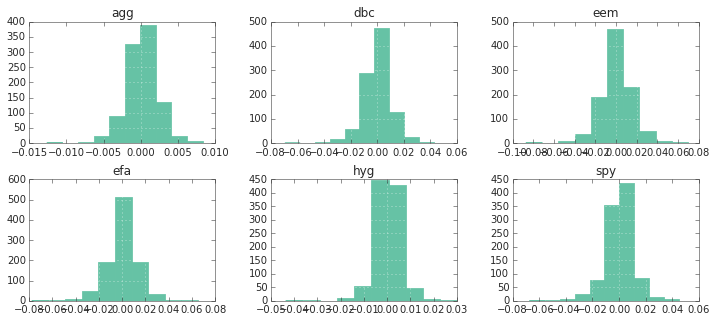
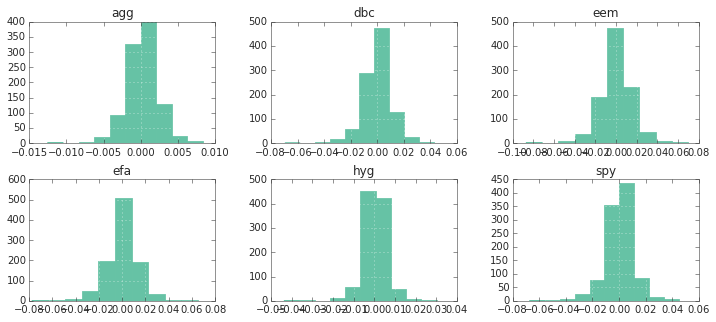
auto-updating docs

diff --git a/quick.html b/quick.html
@@ -61,11 +61,11 @@ the source, or check out the <a class="reference internal" href="ffn.html"><em>A
 </div>
 <div class="pynb-result highlight-python"><pre>              agg    hyg     spy    eem    efa
 Date
-2010-01-04  90.61  65.16  103.44  39.63  50.29
-2010-01-05  91.02  65.47  103.71  39.92  50.33
-2010-01-06  90.97  65.64  103.79  40.01  50.55
-2010-01-07  90.86  65.90  104.23  39.77  50.35
-2010-01-08  90.92  66.00  104.57  40.09  50.75
+2010-01-04  90.45  64.87  103.44  39.32  49.08
+2010-01-05  90.86  65.18  103.71  39.61  49.13
+2010-01-06  90.81  65.35  103.79  39.69  49.33
+2010-01-07  90.70  65.61  104.23  39.46  49.14
+2010-01-08  90.75  65.72  104.57  39.77  49.53
 
 [5 rows x 5 columns]</pre>
 </div>
@@ -88,17 +88,17 @@ Date
 [5 rows x 4 columns]</pre>
 </div>
 <p>The default data provider is <a class="reference internal" href="ffn.html#ffn.data.web" title="ffn.data.web"><tt class="xref py py-func docutils literal"><span class="pre">ffn.data.web()</span></tt></a>. This is basically just a thin wrapper around pandas&#8217; pandas.io.data provider. Please refer to the appropriate docs for more info (data sources, etc.). The <a class="reference internal" href="ffn.html#ffn.data.csv" title="ffn.data.csv"><tt class="xref py py-func docutils literal"><span class="pre">ffn.data.csv()</span></tt></a> provider is also available when we want to load data from a local file. In this case, we can tell <a class="reference internal" href="ffn.html#ffn.data.get" title="ffn.data.get"><tt class="xref py py-func docutils literal"><span class="pre">ffn.data.get()</span></tt></a> to use the csv provider. In this case, we also want to merge this new data with the existing data we downloaded earlier. Therefore, we will provide the <strong>data</strong> object as the <em>existing</em> argument, and the new data will be merged into the existing DataFrame.</p>
-<div class="code python highlight-python"><div class="highlight"><pre><span class="n">data</span> <span class="o">=</span> <span class="n">ffn</span><span class="o">.</span><span class="n">get</span><span class="p">(</span><span class="s">&#39;dbc&#39;</span><span class="p">,</span> <span class="n">provider</span><span class="o">=</span><span class="n">ffn</span><span class="o">.</span><span class="n">data</span><span class="o">.</span><span class="n">csv</span><span class="p">,</span> <span class="n">path</span><span class="o">=</span><span class="s">&#39;source/test_data.csv&#39;</span><span class="p">,</span> <span class="n">existing</span><span class="o">=</span><span class="n">data</span><span class="p">)</span>
+<div class="code python highlight-python"><div class="highlight"><pre><span class="n">data</span> <span class="o">=</span> <span class="n">ffn</span><span class="o">.</span><span class="n">get</span><span class="p">(</span><span class="s">&#39;dbc&#39;</span><span class="p">,</span> <span class="n">provider</span><span class="o">=</span><span class="n">ffn</span><span class="o">.</span><span class="n">data</span><span class="o">.</span><span class="n">csv</span><span class="p">,</span> <span class="n">path</span><span class="o">=</span><span class="s">&#39;test_data.csv&#39;</span><span class="p">,</span> <span class="n">existing</span><span class="o">=</span><span class="n">data</span><span class="p">)</span>
 <span class="k">print</span> <span class="n">data</span><span class="o">.</span><span class="n">head</span><span class="p">()</span>
 </pre></div>
 </div>
 <div class="pynb-result highlight-python"><pre>              agg    hyg     spy    eem    efa    dbc
 Date
-2010-01-04  90.61  65.16  103.44  39.63  50.29  25.24
-2010-01-05  91.02  65.47  103.71  39.92  50.33  25.27
-2010-01-06  90.97  65.64  103.79  40.01  50.55  25.72
-2010-01-07  90.86  65.90  104.23  39.77  50.35  25.40
-2010-01-08  90.92  66.00  104.57  40.09  50.75  25.38
+2010-01-04  90.45  64.87  103.44  39.32  49.08  25.24
+2010-01-05  90.86  65.18  103.71  39.61  49.13  25.27
+2010-01-06  90.81  65.35  103.79  39.69  49.33  25.72
+2010-01-07  90.70  65.61  104.23  39.46  49.14  25.40
+2010-01-08  90.75  65.72  104.57  39.77  49.53  25.38
 
 [5 rows x 6 columns]</pre>
 </div>
@@ -113,11 +113,11 @@ Date
 </div>
 <div class="pynb-result highlight-python"><pre>                 agg       hyg       spy       eem       efa       dbc
 Date
-2010-01-05  0.004515  0.004746  0.002607  0.007291  0.000795  0.001188
-2010-01-06 -0.000549  0.002593  0.000771  0.002252  0.004362  0.017651
-2010-01-07 -0.001210  0.003953  0.004230 -0.006017 -0.003964 -0.012520
-2010-01-08  0.000660  0.001516  0.003257  0.008014  0.007913 -0.000788
-2010-01-11 -0.000770 -0.000758  0.001433 -0.001998  0.008242 -0.003157
+2010-01-05  0.004523  0.004767  0.002607  0.007348  0.001018  0.001188
+2010-01-06 -0.000550  0.002605  0.000771  0.002018  0.004063  0.017651
+2010-01-07 -0.001212  0.003971  0.004230 -0.005812 -0.003859 -0.012520
+2010-01-08  0.000551  0.001675  0.003257  0.007825  0.007905 -0.000788
+2010-01-11 -0.000772 -0.000913  0.001433 -0.002014  0.008244 -0.003157
 
 [5 rows x 6 columns]</pre>
 </div>
@@ -149,7 +149,7 @@ function to get the pairwise correlations between assets.</p>
     <tr>
       <th>agg</th>
       <td>  1.00</td>
-      <td> -0.12</td>
+      <td> -0.11</td>
       <td> -0.33</td>
       <td> -0.23</td>
       <td> -0.29</td>
@@ -157,7 +157,7 @@ function to get the pairwise correlations between assets.</p>
     </tr>
     <tr>
       <th>hyg</th>
-      <td> -0.12</td>
+      <td> -0.11</td>
       <td>  1.00</td>
       <td>  0.77</td>
       <td>  0.75</td>
@@ -241,49 +241,49 @@ the way we display this wide array of stats.</p>
 Start                2010-01-04  2010-01-04  2010-01-04  2010-01-04  2010-01-04  2010-01-04
 End                  2013-12-31  2013-12-31  2013-12-31  2013-12-31  2013-12-31  2013-12-31
 
-Total Return         16.37%      39.21%      76.91%      5.48%       33.43%      1.66%
+Total Return         16.36%      39.23%      76.91%      5.47%       33.44%      1.66%
 Daily Sharpe         1.11        0.97        0.93        0.18        0.44        0.11
-CAGR                 3.87%       8.65%       15.37%      1.35%       7.50%       0.41%
-Max Drawdown         -5.15%      -10.06%     -18.61%     -30.87%     -25.86%     -24.34%
+CAGR                 3.87%       8.65%       15.37%      1.34%       7.50%       0.41%
+Max Drawdown         -5.14%      -10.07%     -18.61%     -30.87%     -25.86%     -24.34%
 
-MTD                  -0.56%      0.40%       2.59%       -0.41%      2.18%       0.59%
-3m                   0.02%       3.42%       10.52%      3.49%       6.09%       -0.39%
-6m                   0.58%       5.83%       16.32%      9.54%       18.11%      2.11%
-YTD                  -1.97%      5.75%       32.30%      -3.64%      21.45%      -7.63%
-1Y                   -1.97%      5.75%       32.30%      -3.64%      21.45%      -7.63%
-3Y (ann.)            3.08%       7.83%       16.07%      -2.33%      8.17%       -2.34%
-5Y (ann.)            3.87%       8.65%       15.37%      1.35%       7.50%       0.41%
-10Y (ann.)           3.87%       8.65%       15.37%      1.35%       7.50%       0.41%
-Since Incep. (ann.)  3.87%       8.65%       15.37%      1.35%       7.50%       0.41%
+MTD                  -0.56%      0.41%       2.59%       -0.41%      2.17%       0.59%
+3m                   0.02%       3.42%       10.52%      3.47%       6.07%       -0.39%
+6m                   0.57%       5.85%       16.32%      9.54%       18.11%      2.11%
+YTD                  -1.97%      5.76%       32.30%      -3.65%      21.44%      -7.63%
+1Y                   -1.97%      5.76%       32.30%      -3.65%      21.44%      -7.63%
+3Y (ann.)            3.08%       7.83%       16.07%      -2.34%      8.17%       -2.34%
+5Y (ann.)            3.87%       8.65%       15.37%      1.34%       7.50%       0.41%
+10Y (ann.)           3.87%       8.65%       15.37%      1.34%       7.50%       0.41%
+Since Incep. (ann.)  3.87%       8.65%       15.37%      1.34%       7.50%       0.41%
 
 Daily Sharpe         1.11        0.97        0.93        0.18        0.44        0.11
-Daily Mean (ann.)    3.86%       8.70%       15.73%      4.36%       9.73%       1.83%
-Daily Vol (ann.)     3.48%       8.97%       16.83%      24.56%      22.31%      16.84%
-Daily Skew           -0.40       -0.55       -0.39       -0.13       -0.26       -0.47
-Daily Kurt           2.30        7.51        4.02        3.06        3.64        2.90
-Best Day             0.83%       3.05%       4.65%       7.20%       6.74%       4.34%
-Worst Day            -1.25%      -4.26%      -6.51%      -8.34%      -7.46%      -6.70%
+Daily Mean (ann.)    3.86%       8.70%       15.73%      4.35%       9.73%       1.83%
+Daily Vol (ann.)     3.47%       8.98%       16.83%      24.56%      22.32%      16.84%
+Daily Skew           -0.40       -0.55       -0.39       -0.12       -0.26       -0.47
+Daily Kurt           2.28        7.52        4.02        3.06        3.64        2.90
+Best Day             0.84%       3.06%       4.65%       7.20%       6.75%       4.34%
+Worst Day            -1.24%      -4.27%      -6.51%      -8.34%      -7.46%      -6.70%
 
-Monthly Sharpe       1.22        1.11        1.22        0.30        0.60        0.27
+Monthly Sharpe       1.23        1.11        1.22        0.30        0.60        0.27
 Monthly Mean (ann.)  3.59%       9.51%       16.99%      6.43%       11.06%      4.61%
-Monthly Vol (ann.)   2.93%       8.55%       13.92%      21.46%      18.41%      17.10%
-Monthly Skew         -0.34       0.14        -0.32       -0.09       -0.37       -0.74
-Monthly Kurt         0.03        1.74        0.24        1.29        0.17        1.16
-Best Month           1.77%       8.48%       10.92%      16.29%      11.61%      9.89%
-Worst Month          -2.01%      -5.29%      -7.94%      -17.90%     -11.20%     -14.62%
+Monthly Vol (ann.)   2.93%       8.56%       13.92%      21.45%      18.41%      17.10%
+Monthly Skew         -0.34       0.14        -0.32       -0.10       -0.37       -0.74
+Monthly Kurt         0.02        1.74        0.24        1.28        0.17        1.16
+Best Month           1.77%       8.49%       10.92%      16.27%      11.63%      9.89%
+Worst Month          -2.00%      -5.30%      -7.94%      -17.89%     -11.19%     -14.62%
 
 Yearly Sharpe        0.65        2.79        1.10        -0.06       0.50        -0.40
 Yearly Mean          3.16%       7.85%       16.73%      -1.13%      9.32%       -2.24%
-Yearly Vol           4.86%       2.82%       15.22%      19.04%      18.73%      5.57%
-Yearly Skew          -0.54       1.48        0.22        0.58        -1.69       0.27
+Yearly Vol           4.86%       2.81%       15.22%      19.06%      18.72%      5.57%
+Yearly Skew          -0.54       1.50        0.22        0.58        -1.69       0.27
 Yearly Kurt          -           -           -           -           -           -
-Best Year            7.70%       11.06%      32.30%      19.05%      21.45%      3.50%
-Worst Year           -1.97%      5.75%       1.90%       -18.79%     -12.24%     -7.63%
+Best Year            7.70%       11.05%      32.30%      19.06%      21.44%      3.50%
+Worst Year           -1.97%      5.76%       1.90%       -18.80%     -12.23%     -7.63%
 
 Avg. Drawdown        -0.48%      -1.18%      -1.79%      -5.16%      -4.96%      -5.09%
-Avg. Drawdown Days   16.93       15.65       17.55       78.22       60.04       107.85
-Avg. Up Month        0.87%       1.85%       3.58%       5.87%       4.37%       4.28%
-Avg. Down Month      -0.47%      -2.31%      -3.21%      -3.41%      -4.16%      -3.35%
+Avg. Drawdown Days   17.16       15.69       17.55       78.22       60.04       107.85
+Avg. Up Month        0.83%       1.86%       3.58%       5.87%       4.37%       4.28%
+Avg. Down Month      -0.49%      -2.31%      -3.21%      -3.41%      -4.15%      -3.35%
 Win Year %           66.67%      100.00%     100.00%     33.33%      66.67%      33.33%
 Win 12m %            81.08%      97.30%      94.59%      59.46%      70.27%      45.95%
 None</pre>
@@ -355,11 +355,11 @@ dtype: object</pre>
 <div class="code python highlight-python"><div class="highlight"><pre><span class="n">returns</span><span class="o">.</span><span class="n">calc_mean_var_weights</span><span class="p">()</span><span class="o">.</span><span class="n">as_format</span><span class="p">(</span><span class="s">&#39;.2%&#39;</span><span class="p">)</span>
 </pre></div>
 </div>
-<div class="pynb-result highlight-python"><pre>agg    79.50%
+<div class="pynb-result highlight-python"><pre>agg    79.57%
 dbc     0.00%
 eem     0.00%
 efa     0.00%
-hyg     6.48%
+hyg     6.39%
 spy    14.03%
 dtype: object</pre>
 </div>

diff --git a/quickstart.html b/quickstart.html
@@ -55,11 +55,11 @@
 </div>
 <div class="pynb-result highlight-python"><pre>              agg    hyg     spy    eem    efa
 Date
-2010-01-04  90.61  65.16  103.44  39.63  50.29
-2010-01-05  91.02  65.47  103.71  39.92  50.33
-2010-01-06  90.97  65.64  103.79  40.01  50.55
-2010-01-07  90.86  65.90  104.23  39.77  50.35
-2010-01-08  90.92  66.00  104.57  40.09  50.75
+2010-01-04  90.45  64.87  103.44  39.32  49.08
+2010-01-05  90.86  65.18  103.71  39.61  49.13
+2010-01-06  90.81  65.35  103.79  39.69  49.33
+2010-01-07  90.70  65.61  104.23  39.46  49.14
+2010-01-08  90.75  65.72  104.57  39.77  49.53
 
 [5 rows x 5 columns]</pre>
 </div>
@@ -82,17 +82,17 @@ Date
 [5 rows x 4 columns]</pre>
 </div>
 <p>The default data provider is <a class="reference internal" href="ffn.html#ffn.data.web" title="ffn.data.web"><tt class="xref py py-func docutils literal"><span class="pre">ffn.data.web()</span></tt></a>. This is basically just a thin wrapper around pandas&#8217; pandas.io.data provider. Please refer to the appropriate docs for more info (data sources, etc.). The <a class="reference internal" href="ffn.html#ffn.data.csv" title="ffn.data.csv"><tt class="xref py py-func docutils literal"><span class="pre">ffn.data.csv()</span></tt></a> provider is also available when we want to load data from a local file. In this case, we can tell <a class="reference internal" href="ffn.html#ffn.data.get" title="ffn.data.get"><tt class="xref py py-func docutils literal"><span class="pre">ffn.data.get()</span></tt></a> to use the csv provider. In this case, we also want to merge this new data with the existing data we downloaded earlier. Therefore, we will provide the <strong>data</strong> object as the <em>existing</em> argument, and the new data will be merged into the existing DataFrame.</p>
-<div class="code python highlight-python"><div class="highlight"><pre><span class="n">data</span> <span class="o">=</span> <span class="n">ffn</span><span class="o">.</span><span class="n">get</span><span class="p">(</span><span class="s">&#39;dbc&#39;</span><span class="p">,</span> <span class="n">provider</span><span class="o">=</span><span class="n">ffn</span><span class="o">.</span><span class="n">data</span><span class="o">.</span><span class="n">csv</span><span class="p">,</span> <span class="n">path</span><span class="o">=</span><span class="s">&#39;source/test_data.csv&#39;</span><span class="p">,</span> <span class="n">existing</span><span class="o">=</span><span class="n">data</span><span class="p">)</span>
+<div class="code python highlight-python"><div class="highlight"><pre><span class="n">data</span> <span class="o">=</span> <span class="n">ffn</span><span class="o">.</span><span class="n">get</span><span class="p">(</span><span class="s">&#39;dbc&#39;</span><span class="p">,</span> <span class="n">provider</span><span class="o">=</span><span class="n">ffn</span><span class="o">.</span><span class="n">data</span><span class="o">.</span><span class="n">csv</span><span class="p">,</span> <span class="n">path</span><span class="o">=</span><span class="s">&#39;test_data.csv&#39;</span><span class="p">,</span> <span class="n">existing</span><span class="o">=</span><span class="n">data</span><span class="p">)</span>
 <span class="k">print</span> <span class="n">data</span><span class="o">.</span><span class="n">head</span><span class="p">()</span>
 </pre></div>
 </div>
 <div class="pynb-result highlight-python"><pre>              agg    hyg     spy    eem    efa    dbc
 Date
-2010-01-04  90.61  65.16  103.44  39.63  50.29  25.24
-2010-01-05  91.02  65.47  103.71  39.92  50.33  25.27
-2010-01-06  90.97  65.64  103.79  40.01  50.55  25.72
-2010-01-07  90.86  65.90  104.23  39.77  50.35  25.40
-2010-01-08  90.92  66.00  104.57  40.09  50.75  25.38
+2010-01-04  90.45  64.87  103.44  39.32  49.08  25.24
+2010-01-05  90.86  65.18  103.71  39.61  49.13  25.27
+2010-01-06  90.81  65.35  103.79  39.69  49.33  25.72
+2010-01-07  90.70  65.61  104.23  39.46  49.14  25.40
+2010-01-08  90.75  65.72  104.57  39.77  49.53  25.38
 
 [5 rows x 6 columns]</pre>
 </div>
@@ -107,11 +107,11 @@ Date
 </div>
 <div class="pynb-result highlight-python"><pre>                 agg       hyg       spy       eem       efa       dbc
 Date
-2010-01-05  0.004515  0.004746  0.002607  0.007291  0.000795  0.001188
-2010-01-06 -0.000549  0.002593  0.000771  0.002252  0.004362  0.017651
-2010-01-07 -0.001210  0.003953  0.004230 -0.006017 -0.003964 -0.012520
-2010-01-08  0.000660  0.001516  0.003257  0.008014  0.007913 -0.000788
-2010-01-11 -0.000770 -0.000758  0.001433 -0.001998  0.008242 -0.003157
+2010-01-05  0.004523  0.004767  0.002607  0.007348  0.001018  0.001188
+2010-01-06 -0.000550  0.002605  0.000771  0.002018  0.004063  0.017651
+2010-01-07 -0.001212  0.003971  0.004230 -0.005812 -0.003859 -0.012520
+2010-01-08  0.000551  0.001675  0.003257  0.007825  0.007905 -0.000788
+2010-01-11 -0.000772 -0.000913  0.001433 -0.002014  0.008244 -0.003157
 
 [5 rows x 6 columns]</pre>
 </div>
@@ -143,7 +143,7 @@ function to get the pairwise correlations between assets.</p>
     <tr>
       <th>agg</th>
       <td>  1.00</td>
-      <td> -0.12</td>
+      <td> -0.11</td>
       <td> -0.33</td>
       <td> -0.23</td>
       <td> -0.29</td>
@@ -151,7 +151,7 @@ function to get the pairwise correlations between assets.</p>
     </tr>
     <tr>
       <th>hyg</th>
-      <td> -0.12</td>
+      <td> -0.11</td>
       <td>  1.00</td>
       <td>  0.77</td>
       <td>  0.75</td>
@@ -235,49 +235,49 @@ the way we display this wide array of stats.</p>
 Start                2010-01-04  2010-01-04  2010-01-04  2010-01-04  2010-01-04  2010-01-04
 End                  2013-12-31  2013-12-31  2013-12-31  2013-12-31  2013-12-31  2013-12-31
 
-Total Return         16.37%      39.21%      76.91%      5.48%       33.43%      1.66%
+Total Return         16.36%      39.23%      76.91%      5.47%       33.44%      1.66%
 Daily Sharpe         1.11        0.97        0.93        0.18        0.44        0.11
-CAGR                 3.87%       8.65%       15.37%      1.35%       7.50%       0.41%
-Max Drawdown         -5.15%      -10.06%     -18.61%     -30.87%     -25.86%     -24.34%
+CAGR                 3.87%       8.65%       15.37%      1.34%       7.50%       0.41%
+Max Drawdown         -5.14%      -10.07%     -18.61%     -30.87%     -25.86%     -24.34%
 
-MTD                  -0.56%      0.40%       2.59%       -0.41%      2.18%       0.59%
-3m                   0.02%       3.42%       10.52%      3.49%       6.09%       -0.39%
-6m                   0.58%       5.83%       16.32%      9.54%       18.11%      2.11%
-YTD                  -1.97%      5.75%       32.30%      -3.64%      21.45%      -7.63%
-1Y                   -1.97%      5.75%       32.30%      -3.64%      21.45%      -7.63%
-3Y (ann.)            3.08%       7.83%       16.07%      -2.33%      8.17%       -2.34%
-5Y (ann.)            3.87%       8.65%       15.37%      1.35%       7.50%       0.41%
-10Y (ann.)           3.87%       8.65%       15.37%      1.35%       7.50%       0.41%
-Since Incep. (ann.)  3.87%       8.65%       15.37%      1.35%       7.50%       0.41%
+MTD                  -0.56%      0.41%       2.59%       -0.41%      2.17%       0.59%
+3m                   0.02%       3.42%       10.52%      3.47%       6.07%       -0.39%
+6m                   0.57%       5.85%       16.32%      9.54%       18.11%      2.11%
+YTD                  -1.97%      5.76%       32.30%      -3.65%      21.44%      -7.63%
+1Y                   -1.97%      5.76%       32.30%      -3.65%      21.44%      -7.63%
+3Y (ann.)            3.08%       7.83%       16.07%      -2.34%      8.17%       -2.34%
+5Y (ann.)            3.87%       8.65%       15.37%      1.34%       7.50%       0.41%
+10Y (ann.)           3.87%       8.65%       15.37%      1.34%       7.50%       0.41%
+Since Incep. (ann.)  3.87%       8.65%       15.37%      1.34%       7.50%       0.41%
 
 Daily Sharpe         1.11        0.97        0.93        0.18        0.44        0.11
-Daily Mean (ann.)    3.86%       8.70%       15.73%      4.36%       9.73%       1.83%
-Daily Vol (ann.)     3.48%       8.97%       16.83%      24.56%      22.31%      16.84%
-Daily Skew           -0.40       -0.55       -0.39       -0.13       -0.26       -0.47
-Daily Kurt           2.30        7.51        4.02        3.06        3.64        2.90
-Best Day             0.83%       3.05%       4.65%       7.20%       6.74%       4.34%
-Worst Day            -1.25%      -4.26%      -6.51%      -8.34%      -7.46%      -6.70%
+Daily Mean (ann.)    3.86%       8.70%       15.73%      4.35%       9.73%       1.83%
+Daily Vol (ann.)     3.47%       8.98%       16.83%      24.56%      22.32%      16.84%
+Daily Skew           -0.40       -0.55       -0.39       -0.12       -0.26       -0.47
+Daily Kurt           2.28        7.52        4.02        3.06        3.64        2.90
+Best Day             0.84%       3.06%       4.65%       7.20%       6.75%       4.34%
+Worst Day            -1.24%      -4.27%      -6.51%      -8.34%      -7.46%      -6.70%
 
-Monthly Sharpe       1.22        1.11        1.22        0.30        0.60        0.27
+Monthly Sharpe       1.23        1.11        1.22        0.30        0.60        0.27
 Monthly Mean (ann.)  3.59%       9.51%       16.99%      6.43%       11.06%      4.61%
-Monthly Vol (ann.)   2.93%       8.55%       13.92%      21.46%      18.41%      17.10%
-Monthly Skew         -0.34       0.14        -0.32       -0.09       -0.37       -0.74
-Monthly Kurt         0.03        1.74        0.24        1.29        0.17        1.16
-Best Month           1.77%       8.48%       10.92%      16.29%      11.61%      9.89%
-Worst Month          -2.01%      -5.29%      -7.94%      -17.90%     -11.20%     -14.62%
+Monthly Vol (ann.)   2.93%       8.56%       13.92%      21.45%      18.41%      17.10%
+Monthly Skew         -0.34       0.14        -0.32       -0.10       -0.37       -0.74
+Monthly Kurt         0.02        1.74        0.24        1.28        0.17        1.16
+Best Month           1.77%       8.49%       10.92%      16.27%      11.63%      9.89%
+Worst Month          -2.00%      -5.30%      -7.94%      -17.89%     -11.19%     -14.62%
 
 Yearly Sharpe        0.65        2.79        1.10        -0.06       0.50        -0.40
 Yearly Mean          3.16%       7.85%       16.73%      -1.13%      9.32%       -2.24%
-Yearly Vol           4.86%       2.82%       15.22%      19.04%      18.73%      5.57%
-Yearly Skew          -0.54       1.48        0.22        0.58        -1.69       0.27
+Yearly Vol           4.86%       2.81%       15.22%      19.06%      18.72%      5.57%
+Yearly Skew          -0.54       1.50        0.22        0.58        -1.69       0.27
 Yearly Kurt          -           -           -           -           -           -
-Best Year            7.70%       11.06%      32.30%      19.05%      21.45%      3.50%
-Worst Year           -1.97%      5.75%       1.90%       -18.79%     -12.24%     -7.63%
+Best Year            7.70%       11.05%      32.30%      19.06%      21.44%      3.50%
+Worst Year           -1.97%      5.76%       1.90%       -18.80%     -12.23%     -7.63%
 
 Avg. Drawdown        -0.48%      -1.18%      -1.79%      -5.16%      -4.96%      -5.09%
-Avg. Drawdown Days   16.93       15.65       17.55       78.22       60.04       107.85
-Avg. Up Month        0.87%       1.85%       3.58%       5.87%       4.37%       4.28%
-Avg. Down Month      -0.47%      -2.31%      -3.21%      -3.41%      -4.16%      -3.35%
+Avg. Drawdown Days   17.16       15.69       17.55       78.22       60.04       107.85
+Avg. Up Month        0.83%       1.86%       3.58%       5.87%       4.37%       4.28%
+Avg. Down Month      -0.49%      -2.31%      -3.21%      -3.41%      -4.15%      -3.35%
 Win Year %           66.67%      100.00%     100.00%     33.33%      66.67%      33.33%
 Win 12m %            81.08%      97.30%      94.59%      59.46%      70.27%      45.95%
 None</pre>
@@ -349,11 +349,11 @@ dtype: object</pre>
 <div class="code python highlight-python"><div class="highlight"><pre><span class="n">returns</span><span class="o">.</span><span class="n">calc_mean_var_weights</span><span class="p">()</span><span class="o">.</span><span class="n">as_format</span><span class="p">(</span><span class="s">&#39;.2%&#39;</span><span class="p">)</span>
 </pre></div>
 </div>
-<div class="pynb-result highlight-python"><pre>agg    79.50%
+<div class="pynb-result highlight-python"><pre>agg    79.57%
 dbc     0.00%
 eem     0.00%
 efa     0.00%
-hyg     6.48%
+hyg     6.39%
 spy    14.03%
 dtype: object</pre>
 </div>

diff --git a/_modules/ffn/core.html b/_modules/ffn/core.html
@@ -1620,6 +1620,9 @@
     <span class="n">fig</span><span class="p">,</span> <span class="n">ax</span> <span class="o">=</span> <span class="n">plt</span><span class="o">.</span><span class="n">subplots</span><span class="p">(</span><span class="n">figsize</span><span class="o">=</span><span class="n">figsize</span><span class="p">)</span>
 
     <span class="n">heatmap</span> <span class="o">=</span> <span class="n">ax</span><span class="o">.</span><span class="n">pcolor</span><span class="p">(</span><span class="n">data</span><span class="p">,</span> <span class="n">vmin</span><span class="o">=</span><span class="n">vmin</span><span class="p">,</span> <span class="n">vmax</span><span class="o">=</span><span class="n">vmax</span><span class="p">,</span> <span class="n">cmap</span><span class="o">=</span><span class="n">cmap</span><span class="p">)</span>
+    <span class="c"># for some reason heatmap has the y values backwards....</span>
+    <span class="n">ax</span><span class="o">.</span><span class="n">invert_yaxis</span><span class="p">()</span>
+
     <span class="n">plt</span><span class="o">.</span><span class="n">title</span><span class="p">(</span><span class="n">title</span><span class="p">)</span>
 
     <span class="k">if</span> <span class="n">show_legend</span><span class="p">:</span>
